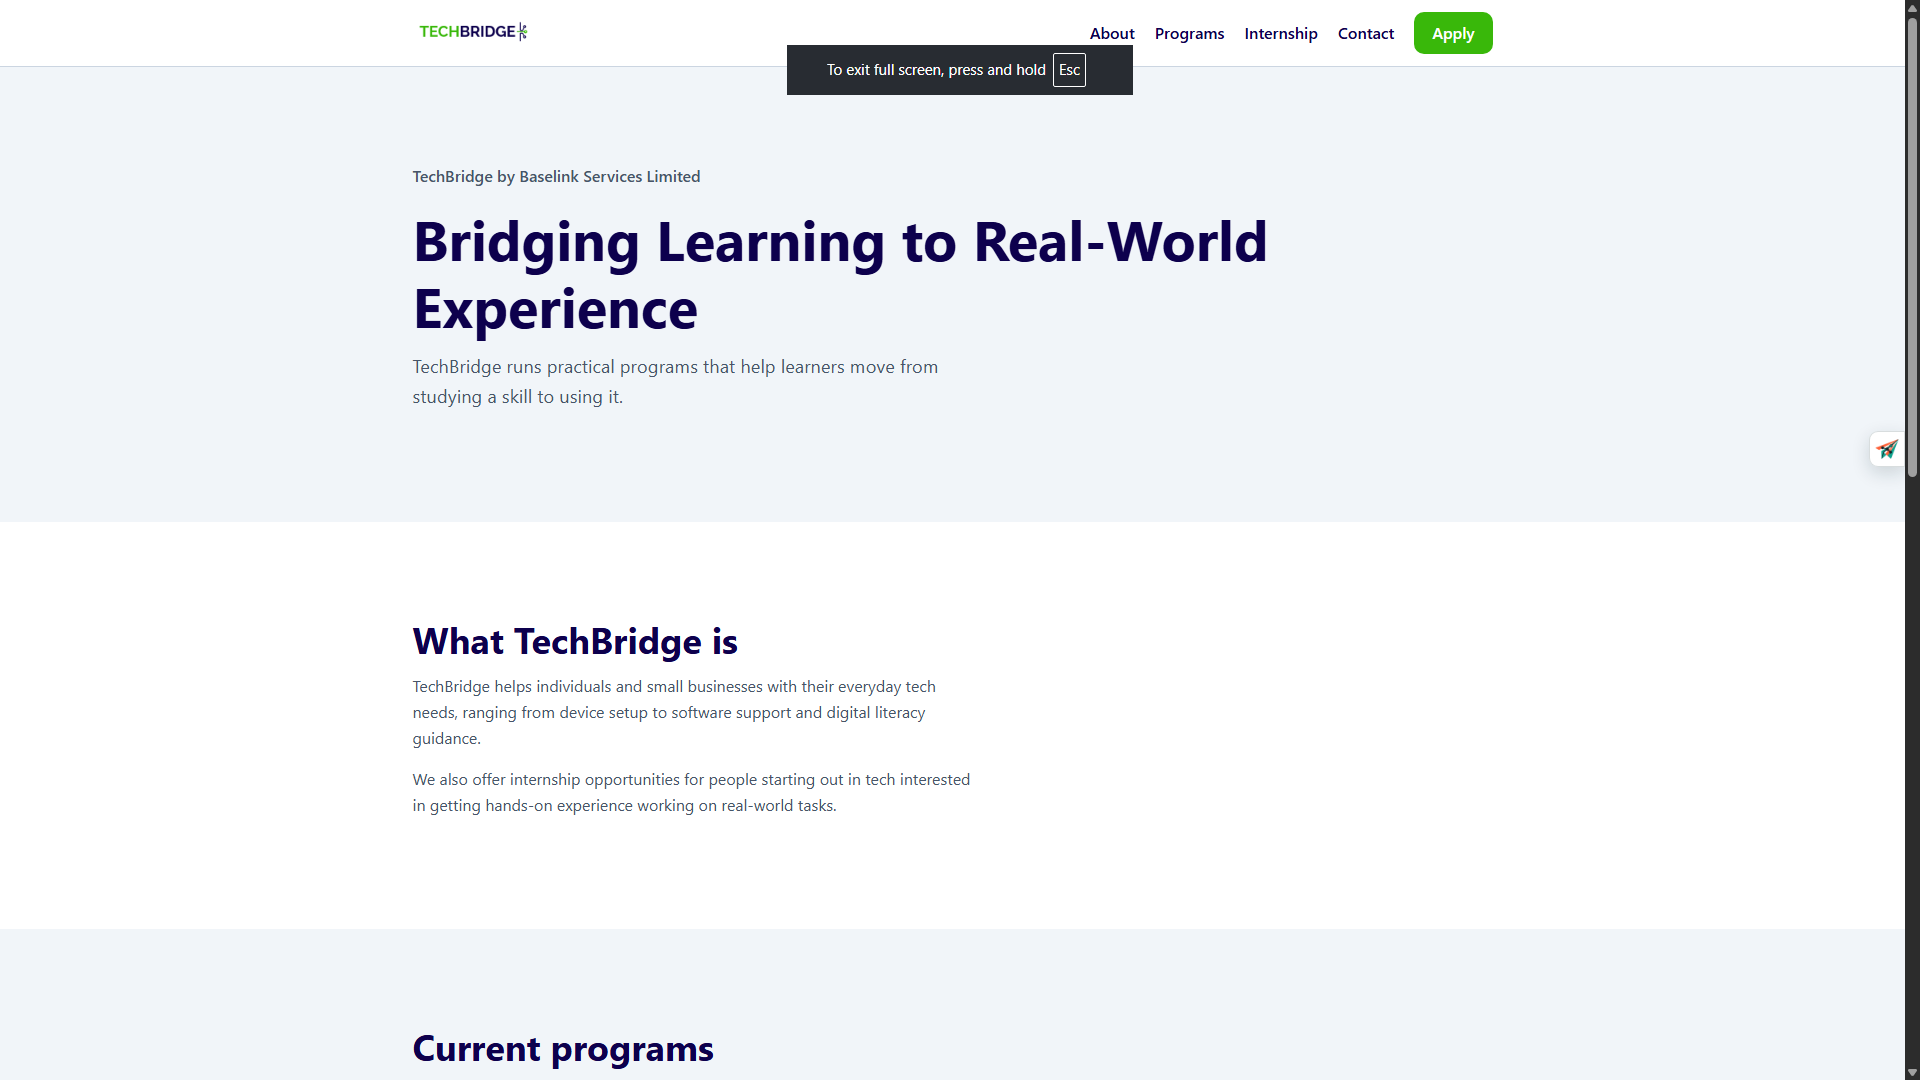
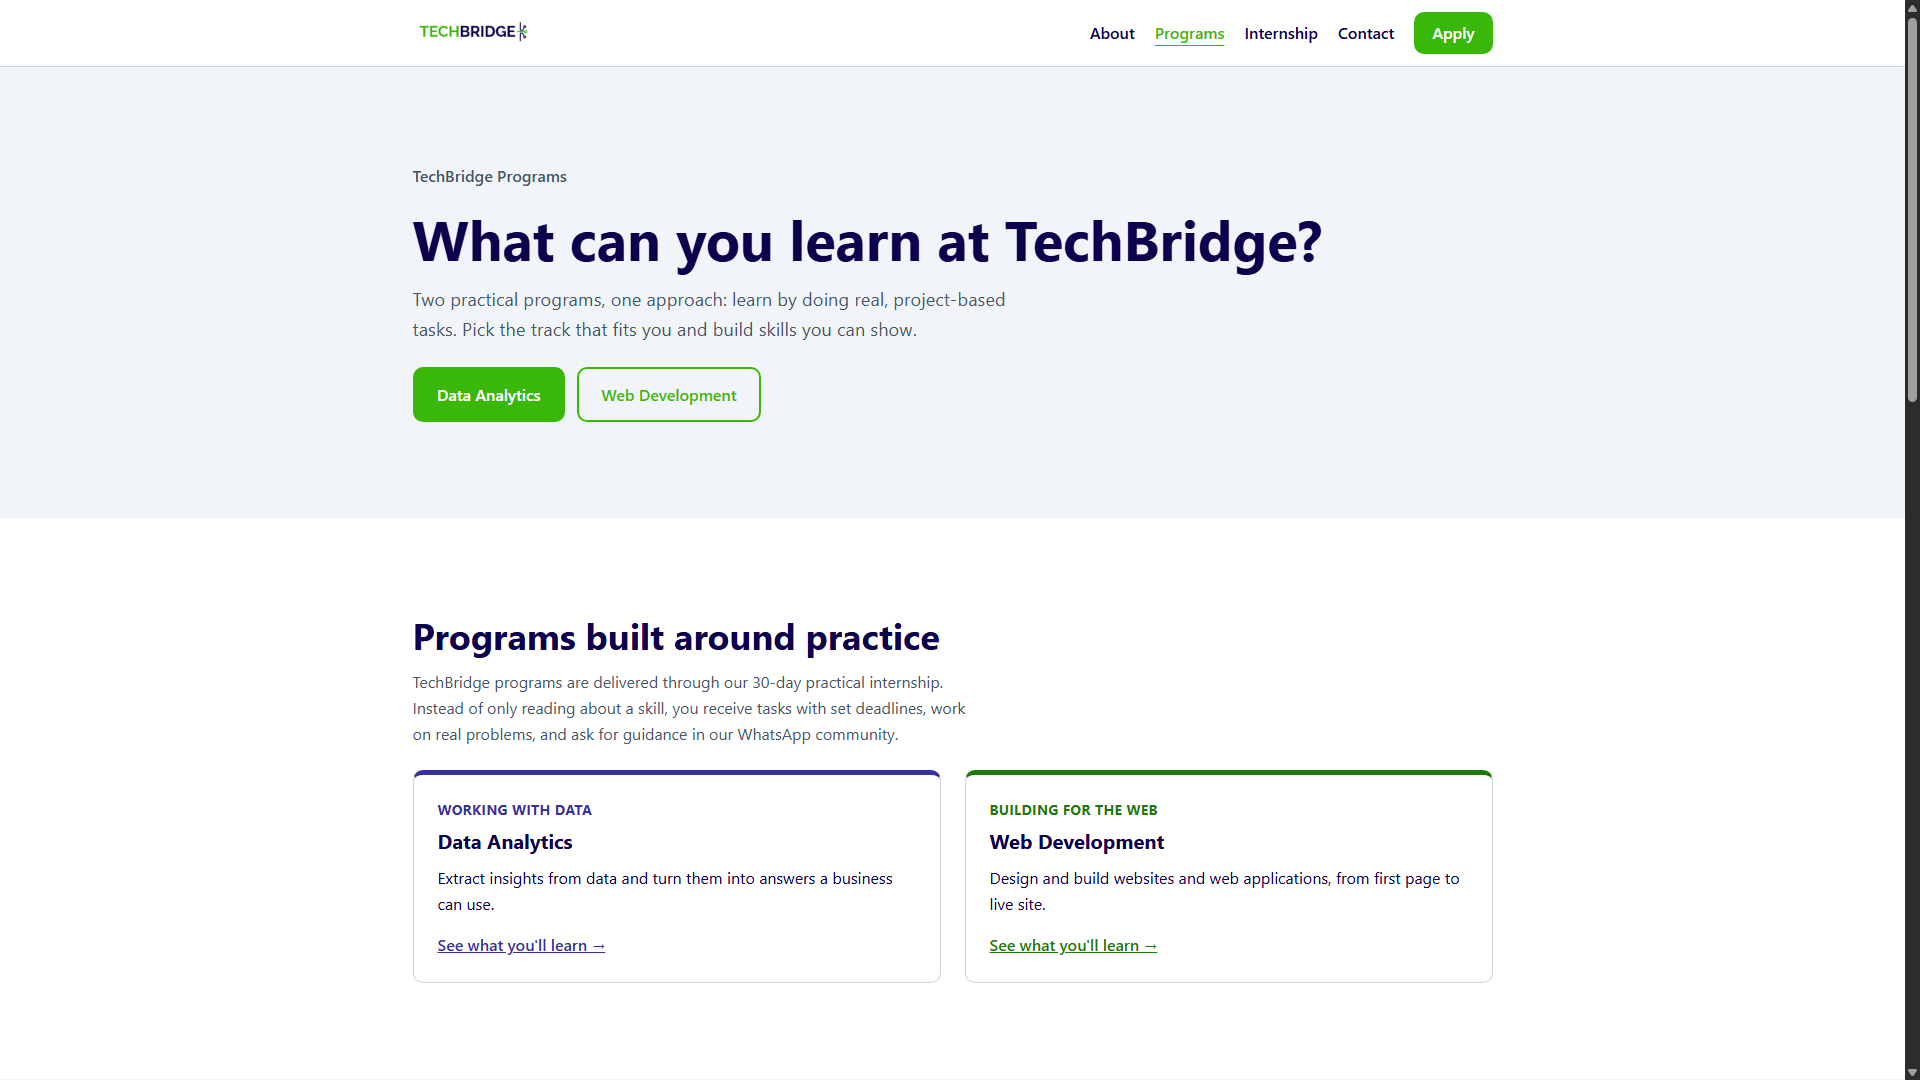
Updated styles.css for programs.html and updated the README

diff --git a/styles.css b/styles.css
@@ -9,6 +9,9 @@
   --color-on-primary: #ffffff;
   --color-border: #cbd5e1;
 
+  --color-da: #3730a3;
+  --color-wd: #1f7a0a;
+
   --font-body: system-ui, -apple-system, "Segoe UI", Roboto, Arial, sans-serif;
   --font-heading: var(--font-body);
 
@@ -23,12 +26,6 @@
 
 html { 
   scroll-behavior: smooth; 
-}
-
-@media (prefers-reduced-motion: reduce) {
-  html { 
-    scroll-behavior: auto; 
-  }
 }
 
 body {
@@ -316,6 +313,91 @@ section[id] {
   border-top: 1px solid rgba(255, 255, 255, 0.25);
 }
 
+.nav-list a[aria-current="page"] {
+  color: var(--color-primary);
+  text-decoration: underline;
+  text-underline-offset: 6px;
+}
+
+.program-da { 
+  --accent: var(--color-da); 
+}
+.program-wd { 
+  --accent: var(--color-wd); 
+}
+
+.program-tag {
+  margin: 0 0 0.5rem;
+  font-size: 0.85rem;
+  font-weight: 700;
+  letter-spacing: 0.04em;
+  text-transform: uppercase;
+  color: var(--accent);
+}
+
+.program-card {
+  border-top: 5px solid var(--accent);
+  transition: transform 0.2s ease-in-out, box-shadow 0.2s ease-in-out;
+}
+
+.program-card:hover {
+  transform: translateY(-3px);
+  box-shadow: 0 8px 20px rgba(13, 0, 77, 0.1);
+}
+
+.program-card a {
+  font-weight: 600;
+  color: var(--accent);
+}
+
+.programs-more { margin-top: 1.75rem; }
+
+.program-jump {
+  display: flex;
+  flex-wrap: wrap;
+  gap: 0.75rem;
+  margin-top: 1.5rem;
+}
+
+.program-section .container {
+  border-left: 5px solid var(--accent);
+  padding-left: 1.5rem;
+}
+
+.program-section h3 { margin-bottom: 0.75rem; }
+
+.skill-list {
+  list-style: none;
+  margin: 0 0 1.25rem;
+  padding: 0;
+  display: flex;
+  flex-wrap: wrap;
+  gap: 0.6rem;
+}
+
+.skill-list li {
+  padding: 0.4rem 0.9rem;
+  border: 2px solid var(--accent);
+  border-radius: 999px;
+  font-weight: 600;
+  color: var(--accent);
+  background: var(--color-bg);
+}
+
+.program-fit { color: var(--color-muted); margin-bottom: 1.5rem; }
+
+@media (prefers-reduced-motion: reduce) {
+  .program-card { 
+    transition: none; 
+  }
+  .program-card:hover { 
+    transform: none; 
+  }
+  html { 
+    scroll-behavior: auto; 
+  }
+}
+
 @media (min-width: 768px) {
   .benefit-list { 
     grid-template-columns: repeat(2, 1fr); 
@@ -331,5 +413,13 @@ section[id] {
 
   .nav-list {
     justify-content: center;
+  }
+
+  .program-section .container { 
+    padding-left: 1rem; 
+  }
+  .program-jump .btn { 
+    flex: 1 1 100%; 
+    text-align: center; 
   }
 }

diff --git a/README.md b/README.md
@@ -1,9 +1,9 @@
-# TechBridge Task 1
+# TechBridge Task 2
 
-Live site: https://new-git-stack.github.io/techbridge-task-1/
+Live site: https://new-git-stack.github.io/techbridge-task-2/
 
 ![Desktop view](screenshots/Desktop_view.png)
 ![Mobile view](screenshots/Mobile_view.jpeg)
 
 ## Developer note
-My main idea was to match TechBridge’s brand colours as closely as possible, while adjusting the green slightly so the text and buttons stay readable. I built a responsive HTML and CSS website covering what the company does, its internship programs, the benefits for interns, and how to get in touch, and I tested it on my phone as well as my laptop. I learnt how to deploy a website to GitHub Pages, and my main challenge was that changes I pushed weren’t showing up on my phone or laptop because of browser caching. I found that checking the live site in a private tab on my phone and using Ctrl + F5 on my laptop confirms a deploy actually worked.
+I approached Task 2 by building on my Task 1 site instead of starting over, adding a dedicated programs.html and reusing the same navigation, buttons, cards, colors and footer so both pages feel like one website. I presented each program in its own section with a short line on its focus, a description of what learners will do, and its main skills as tags, so a visitor can see what each program is about and who it suits. To make the two easy to tell apart, I gave each program its own accent color (indigo for Data Analytics, green for Web Development) and a matching label, border and skill tags. I learned how to use CSS variables to change a component’s color per program with one shared rule, and how to link between pages and sections.
